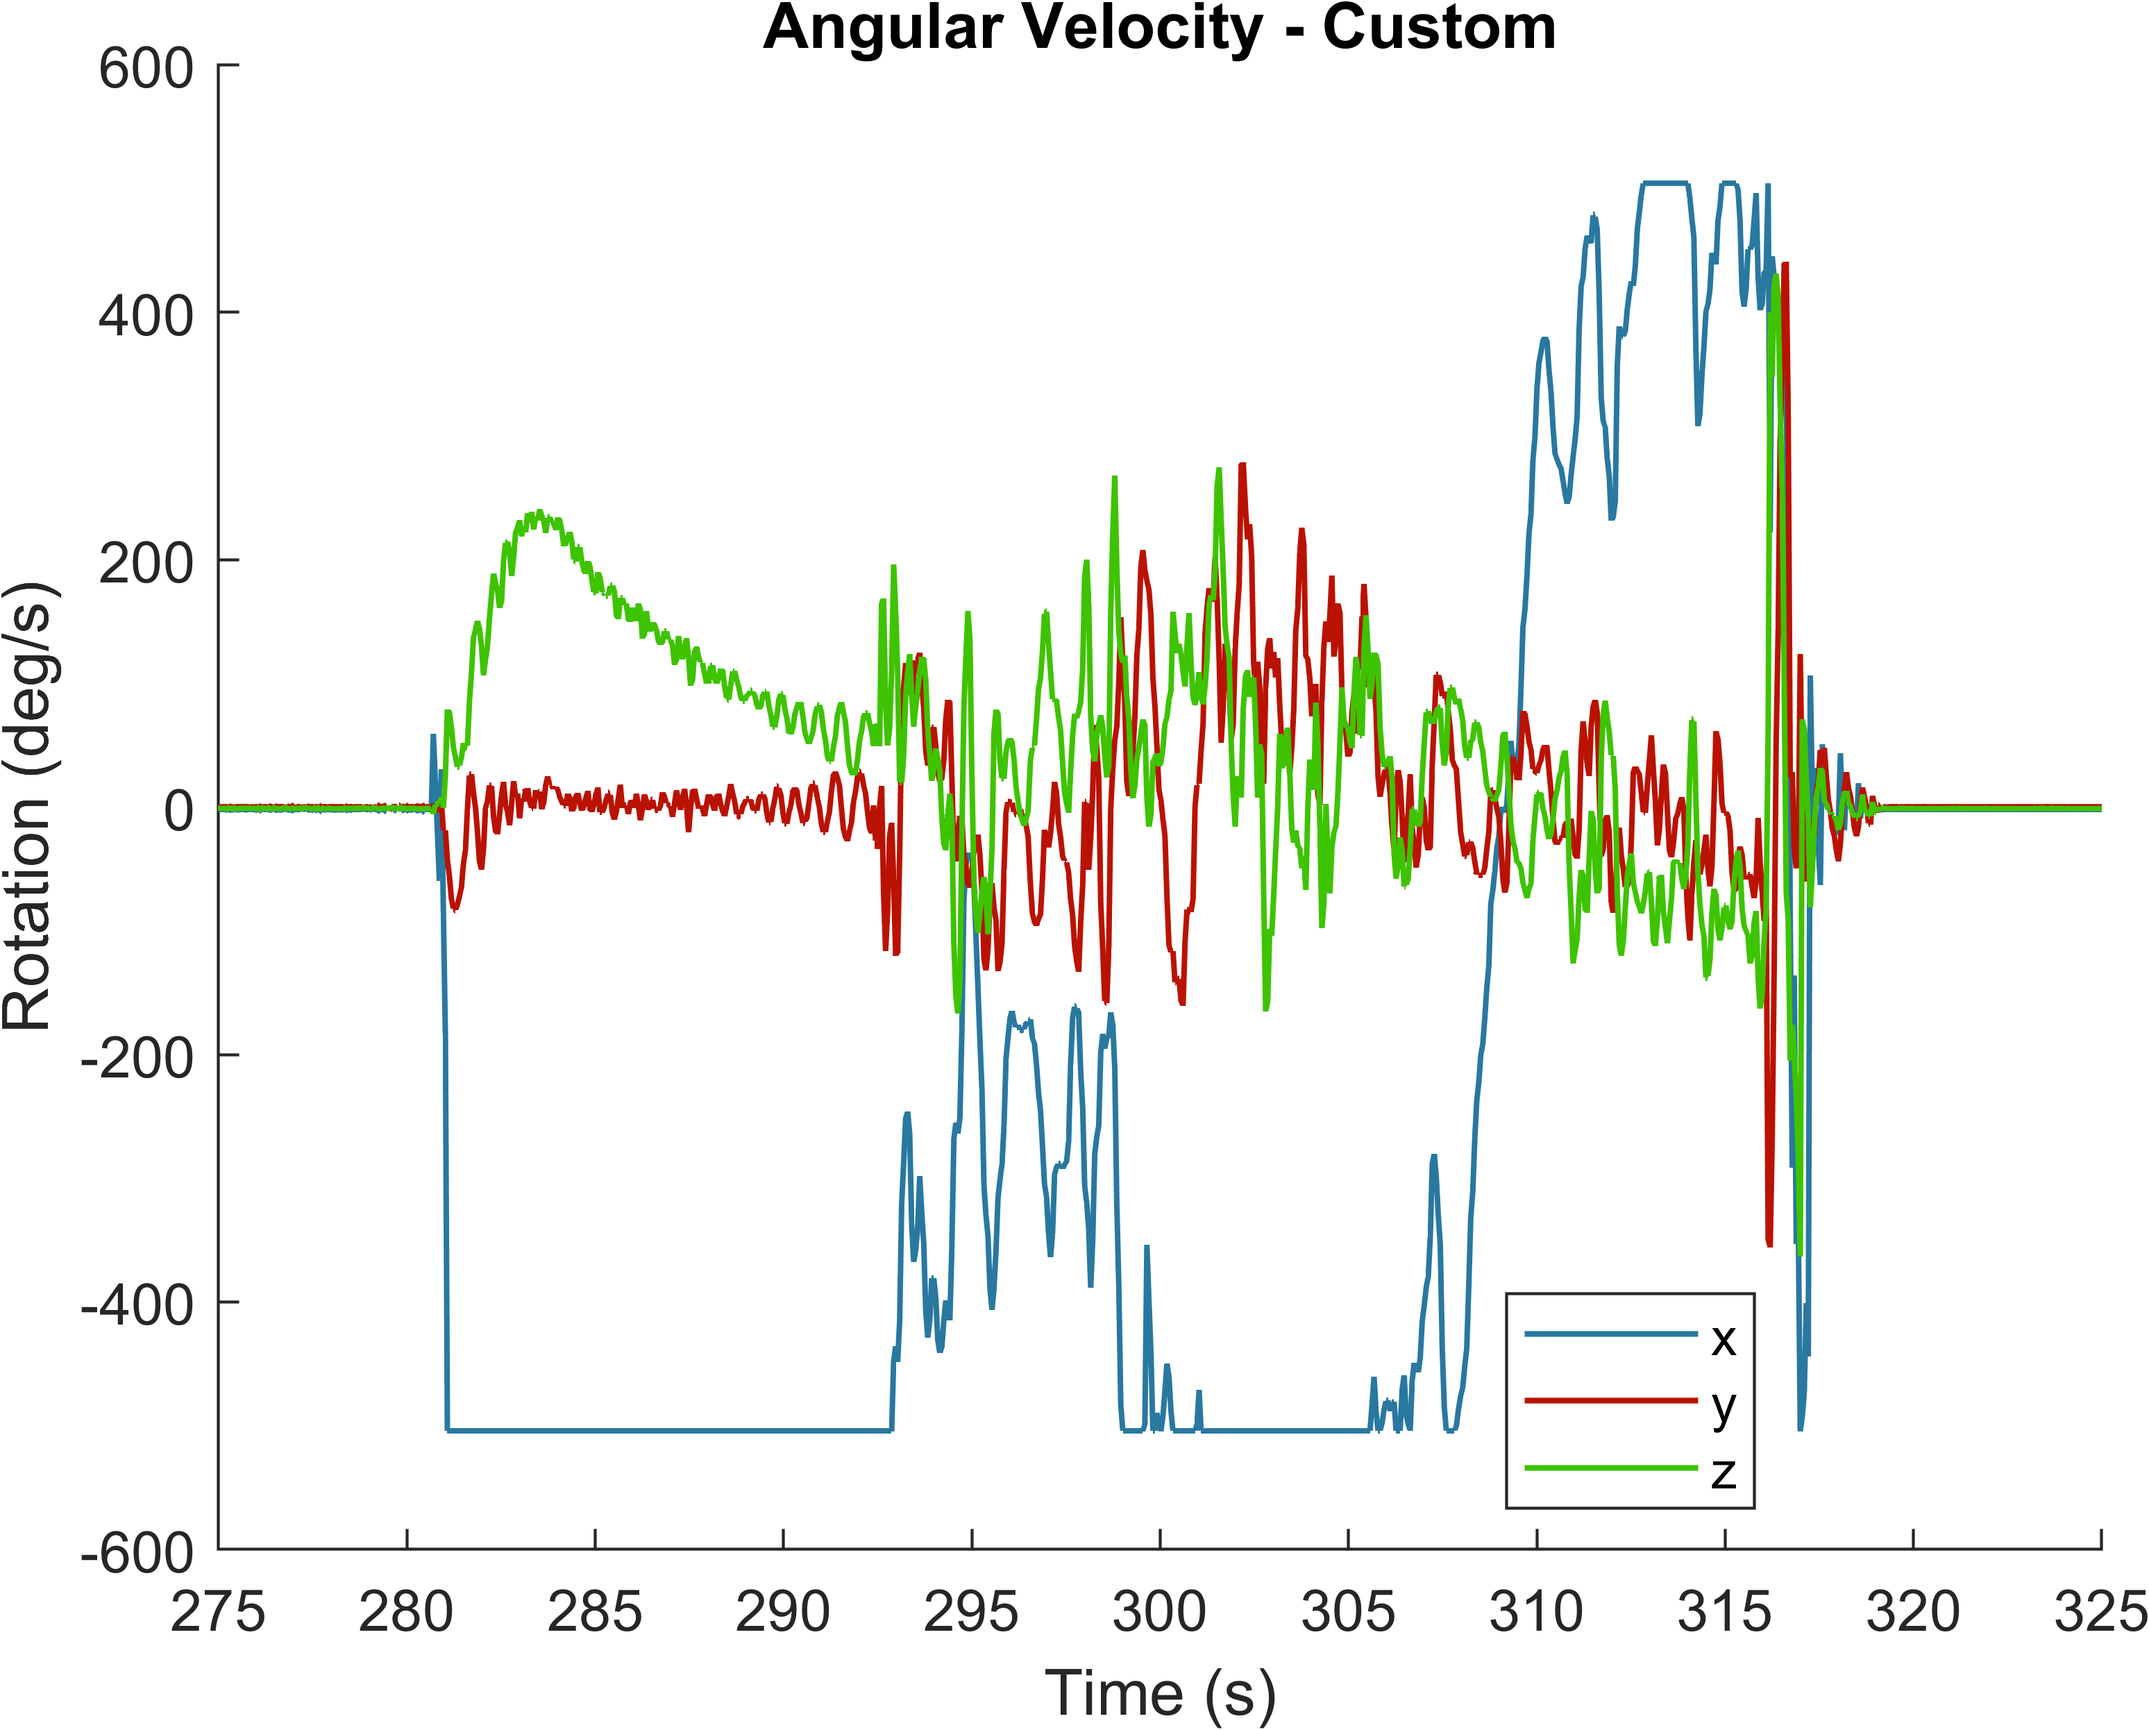
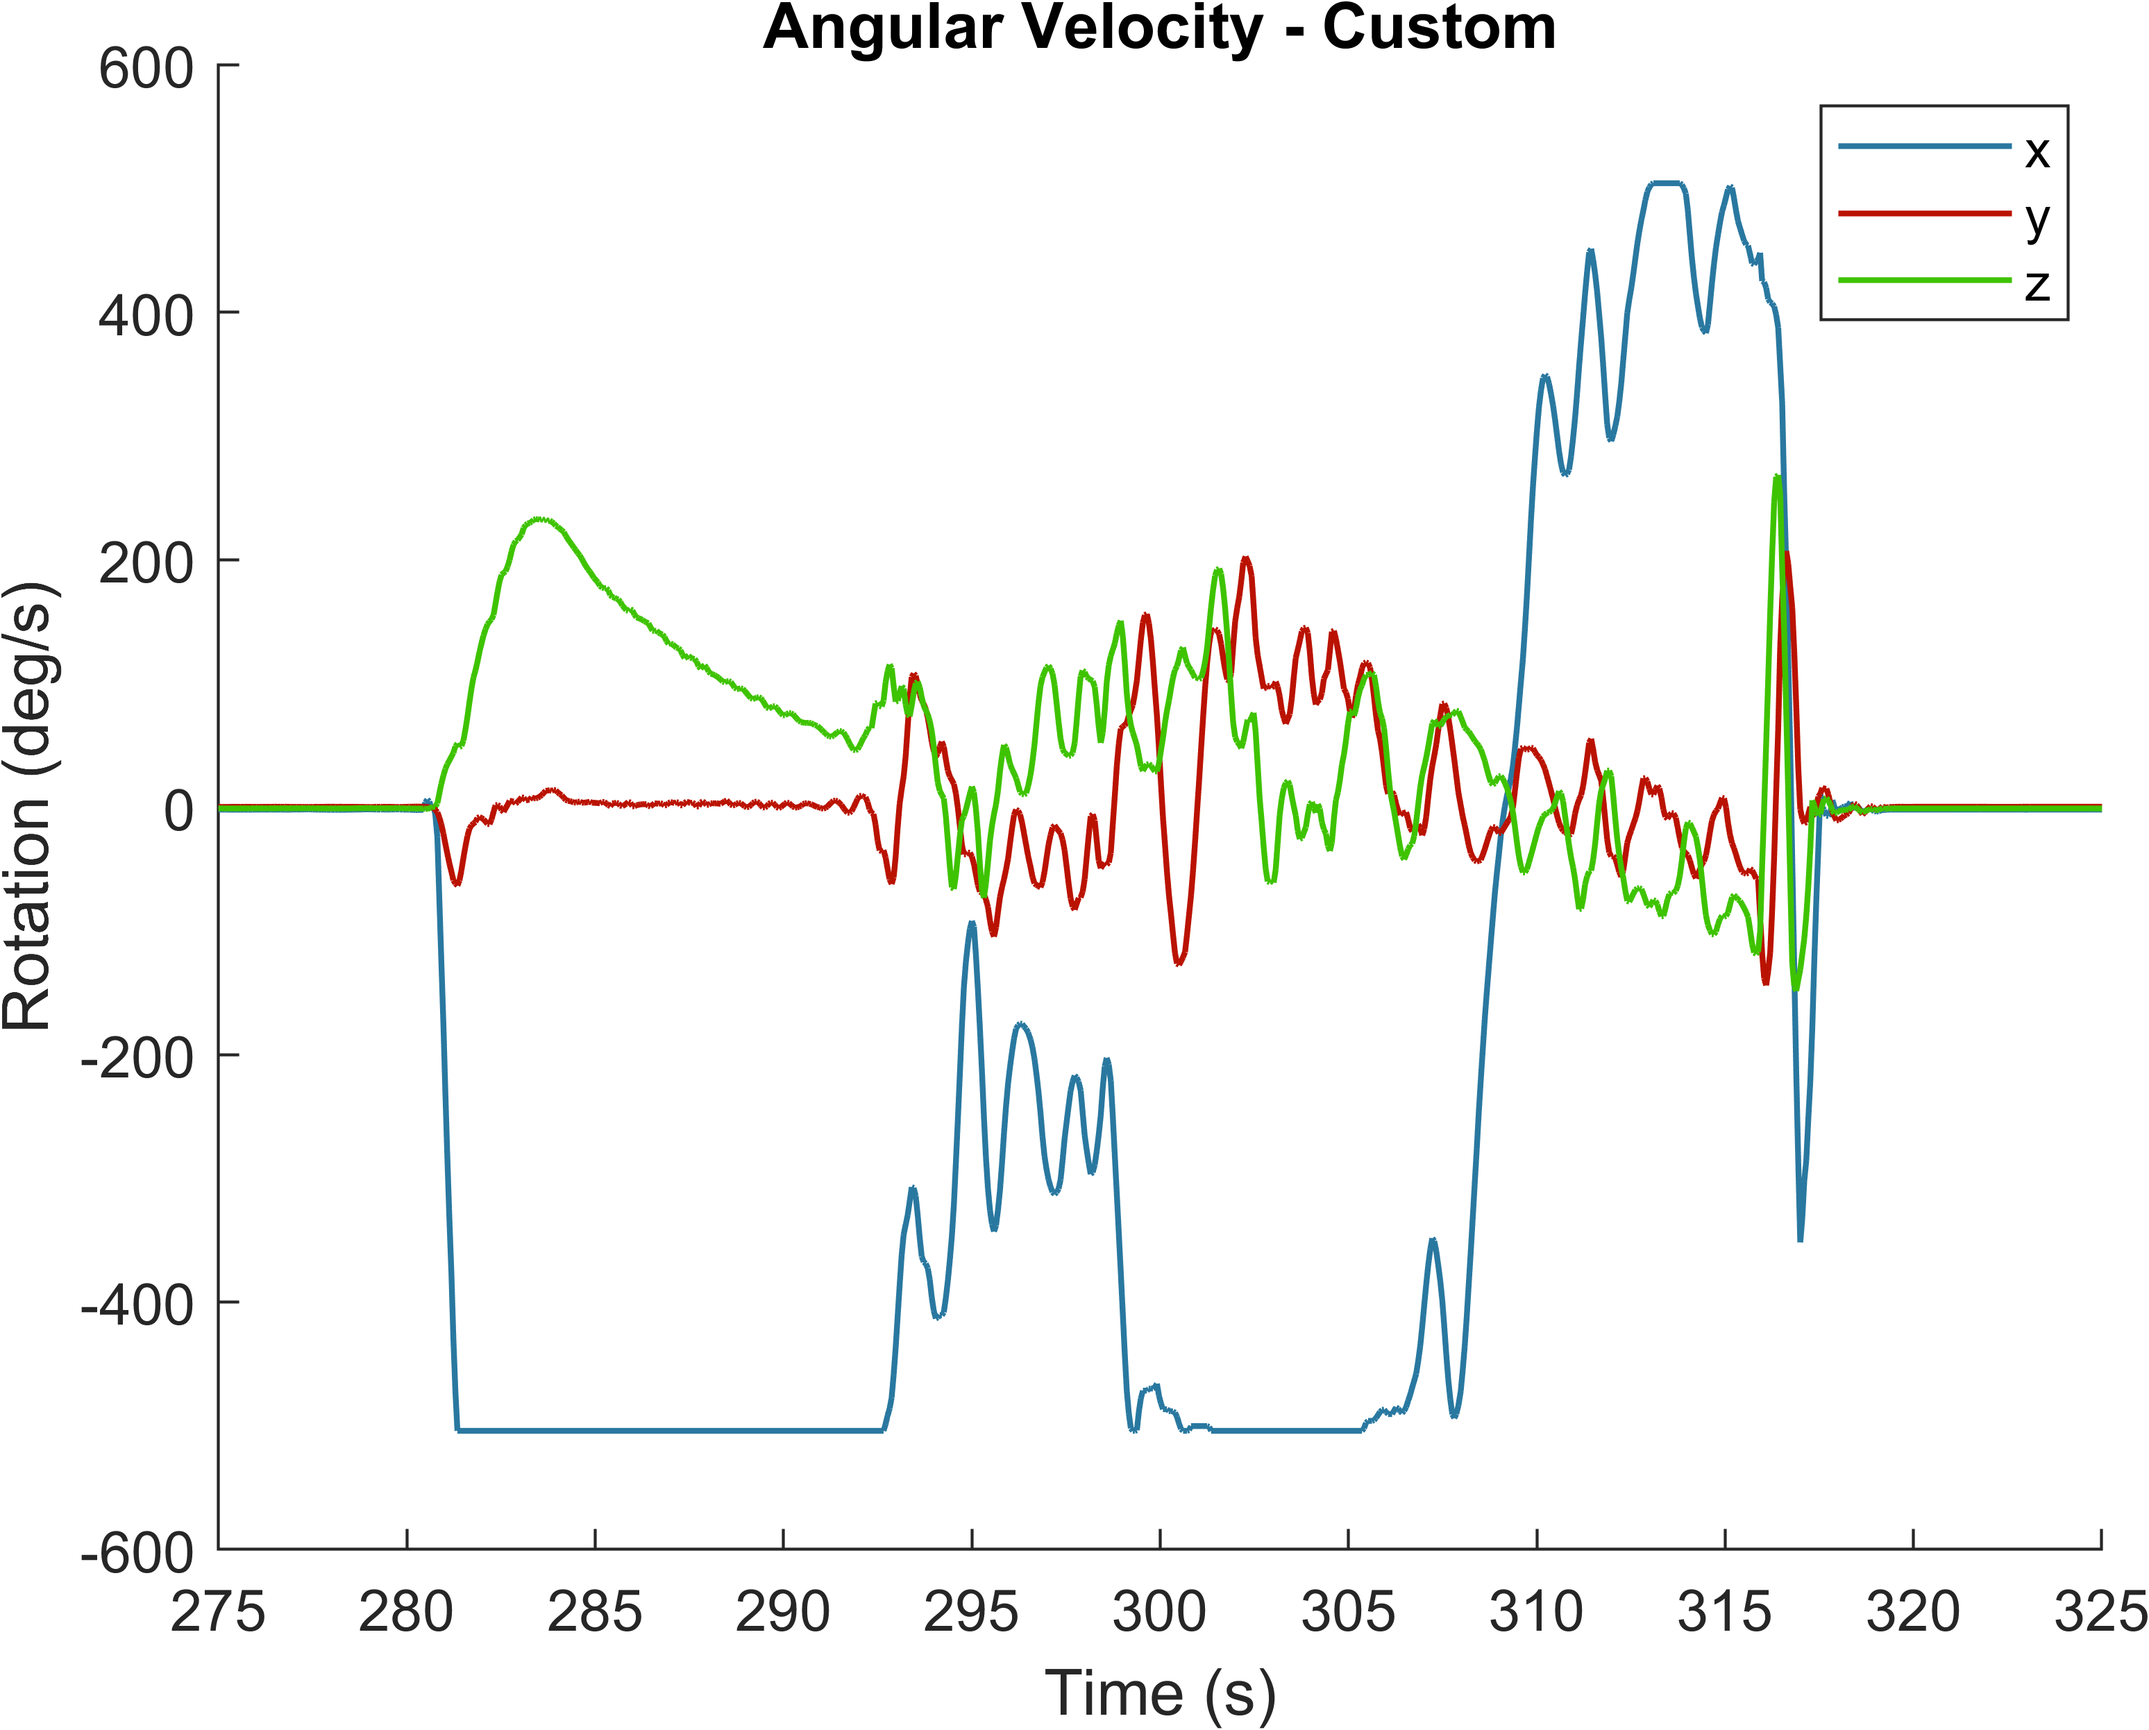
Added MkII Tidying up script and changed acceleration frame of reference

diff --git a/data_processing/astra.m b/data_processing/astra.m
@@ -34,11 +34,15 @@ t = t/1000;
 % shift t values to recording start
 t = t - min(t);
 
+new_x = -acc_z;
+new_y = acc_y;
+new_z = acc_x;
+
 figure
 hold on
-plot(t, acc_x, 'LineWidth', lw, 'Color', col1)
-plot(t, acc_y, 'LineWidth', lw, 'Color', col2)
-plot(t, acc_z, 'LineWidth', lw, 'Color', col3)
+plot(t, new_x, 'LineWidth', lw, 'Color', col1)
+plot(t, new_y, 'LineWidth', lw, 'Color', col2)
+plot(t, new_z, 'LineWidth', lw, 'Color', col3)
 plot(t, acc_magnitude, 'LineWidth', 1, 'Color', col4)
 % plot(time2, OR_accel, 'c-', 'LineWidth', lw)
 title('Acceleration - Custom');
@@ -48,6 +52,12 @@ legend('x', 'y', 'z', 'Magnitude', 'OpenRocket', 'Location', 'best')
 xlim([275 325])
 % ylim([-80 109])
 exportgraphics(gcf, sprintf('%s_acceleration.png', launch), 'Resolution', 600);
+
+period = 10;
+
+g_x = movmean(g_x,period);
+g_y = movmean(g_y,period);
+g_z = movmean(g_z,period);
 
 figure
 hold on
@@ -70,14 +80,69 @@ ylabel('Pressure (Pa)')
 xlim([275 325])
 exportgraphics(gcf, sprintf('%s_pressure.png', launch), 'Resolution', 600);
 
-height = atmospalt(pressure);
-figure
-plot(t, height, 'LineWidth', lw, 'Color', col2)
-title('Altitude ASL - Custom')
-xlabel('Time(s)')
-ylabel('Altitude (m)')
-xlim([275 325])
-exportgraphics(gcf, sprintf('%s_altitude.png', launch), 'Resolution', 600);
+%%
+inp = input('Run ASTRA MkII Cleaner?');
+
+if inp == true
+    
+    height = atmospalt(pressure);
+    
+    skips = [];
+    
+    for i = 2:length(height);
+        if height(i) == height(i-1)
+            
+            skips(end+1) = i;
+            
+        end
+        
+    end
+    
+    height(skips) = 0;
+    
+    t_filtered = t(height~=0);
+    height  = height(height~=0);
+    height = height - min(height);
+    
+    custom_vel = zeros(length(height),1);
+    
+    for i = 1:length(height)-1
+        
+        custom_vel(i) = (height(i+1)-height(i))/(t_filtered(i+1)-t_filtered(i));
+        
+    end
+    
+    figure
+    plot(t_filtered, height, 'LineWidth', lw, 'Color', col2)
+    title('Altitude ASL - Custom')
+    xlabel('Time(s)')
+    ylabel('Altitude (m)')
+    xlim([275 325])
+    exportgraphics(gcf, sprintf('%s_altitude.png', launch), 'Resolution', 600);
+    
+    figure
+    plot(t_filtered, custom_vel, 'LineWidth', lw, 'Color', col2)
+    title('Velocity - Custom')
+    xlabel('Time(s)')
+    ylabel('Velocity (ms^{-1})')
+    xlim([275 325])
+    exportgraphics(gcf, sprintf('%s_velocity.png', launch), 'Resolution', 600);
+    
+    
+else
+    
+    height = atmospalt(pressure);
+    
+    figure
+    plot(t, height, 'LineWidth', lw, 'Color', col2)
+    title('Altitude ASL - Custom')
+    xlabel('Time(s)')
+    ylabel('Altitude (m)')
+    xlim([275 325])
+    exportgraphics(gcf, sprintf('%s_altitude.png', launch), 'Resolution', 600);
+    
+    
+end
 
 figure
 plot(t, temp, 'LineWidth', lw, 'Color', col3)
@@ -146,5 +211,41 @@ title('Temperature - Pnut')
 xlabel('Time(s)')
 ylabel('Temperature (C)')
 exportgraphics(gcf, sprintf('%s_temperature_pnut.png', launch), 'Resolution', 600);
+
+inp = input('Run ASTRA MkII PNut comparison?');
+
+if inp == true
+    
+    figure
+    hold on
+    plot(t, altitude, 'LineWidth', lw, 'Color', col1)
+    plot(t_filtered-280.3, height-6.2, 'LineWidth', lw, 'Color', col2)
+    % plot(time+0.4,OR_alt, '-.', 'LineWidth', lw, 'Color', col2)
+    hold off
+    title('Altitude AGL')
+    legend('Pnut', 'Custom Bay', 'Location', 'best')
+    xlim([0 50])
+    box on
+    xlabel('Time(s)')
+    ylabel('Altitude (m)')
+    exportgraphics(gcf, sprintf('%s_altitude_combined.png', launch), 'Resolution', 600);
+    
+    figure
+    hold on
+    plot(t, vel, 'LineWidth', lw, 'Color', col1)
+    plot(t_filtered-280.3, custom_vel, 'LineWidth', lw, 'Color', col2)
+    % plot(time+0.4,OR_alt, '-.', 'LineWidth', lw, 'Color', col2)
+    hold off
+    title('Velocity')
+    box on
+    legend('Pnut', 'Custom Bay', 'Location', 'best')
+    xlim([0 50])
+    xlabel('Time(s)')
+    ylabel('Velocity (ms^{-1})')
+    exportgraphics(gcf, sprintf('%s_velocity_combined.png', launch), 'Resolution', 600);
+    
+    
+    
+end
 
 
